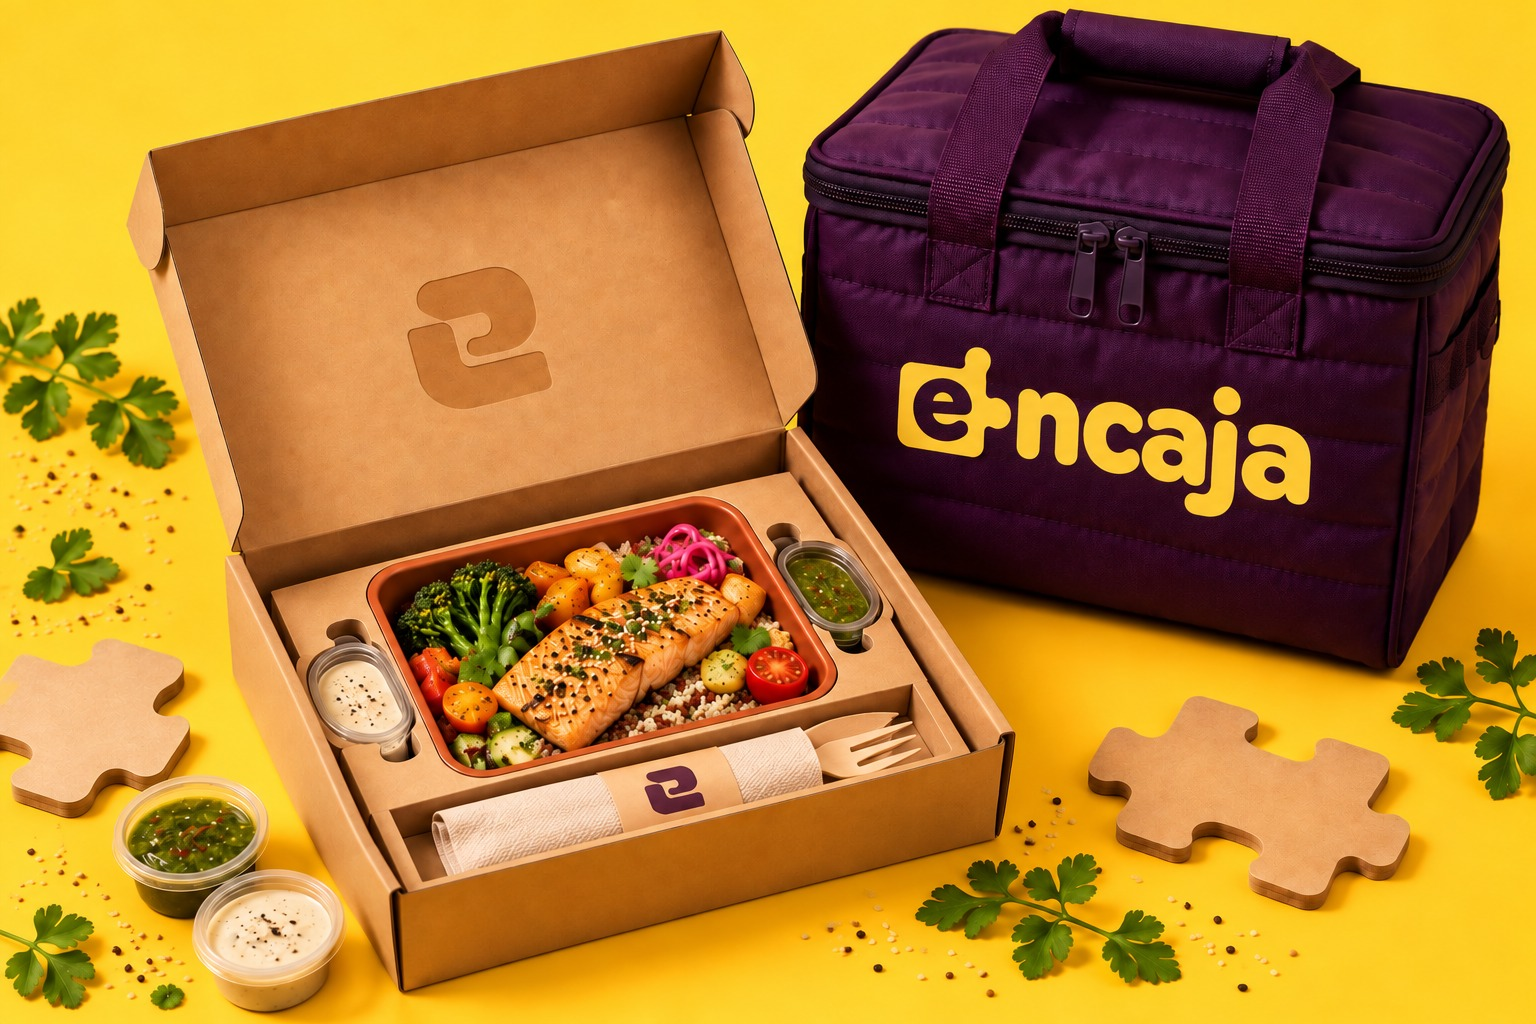
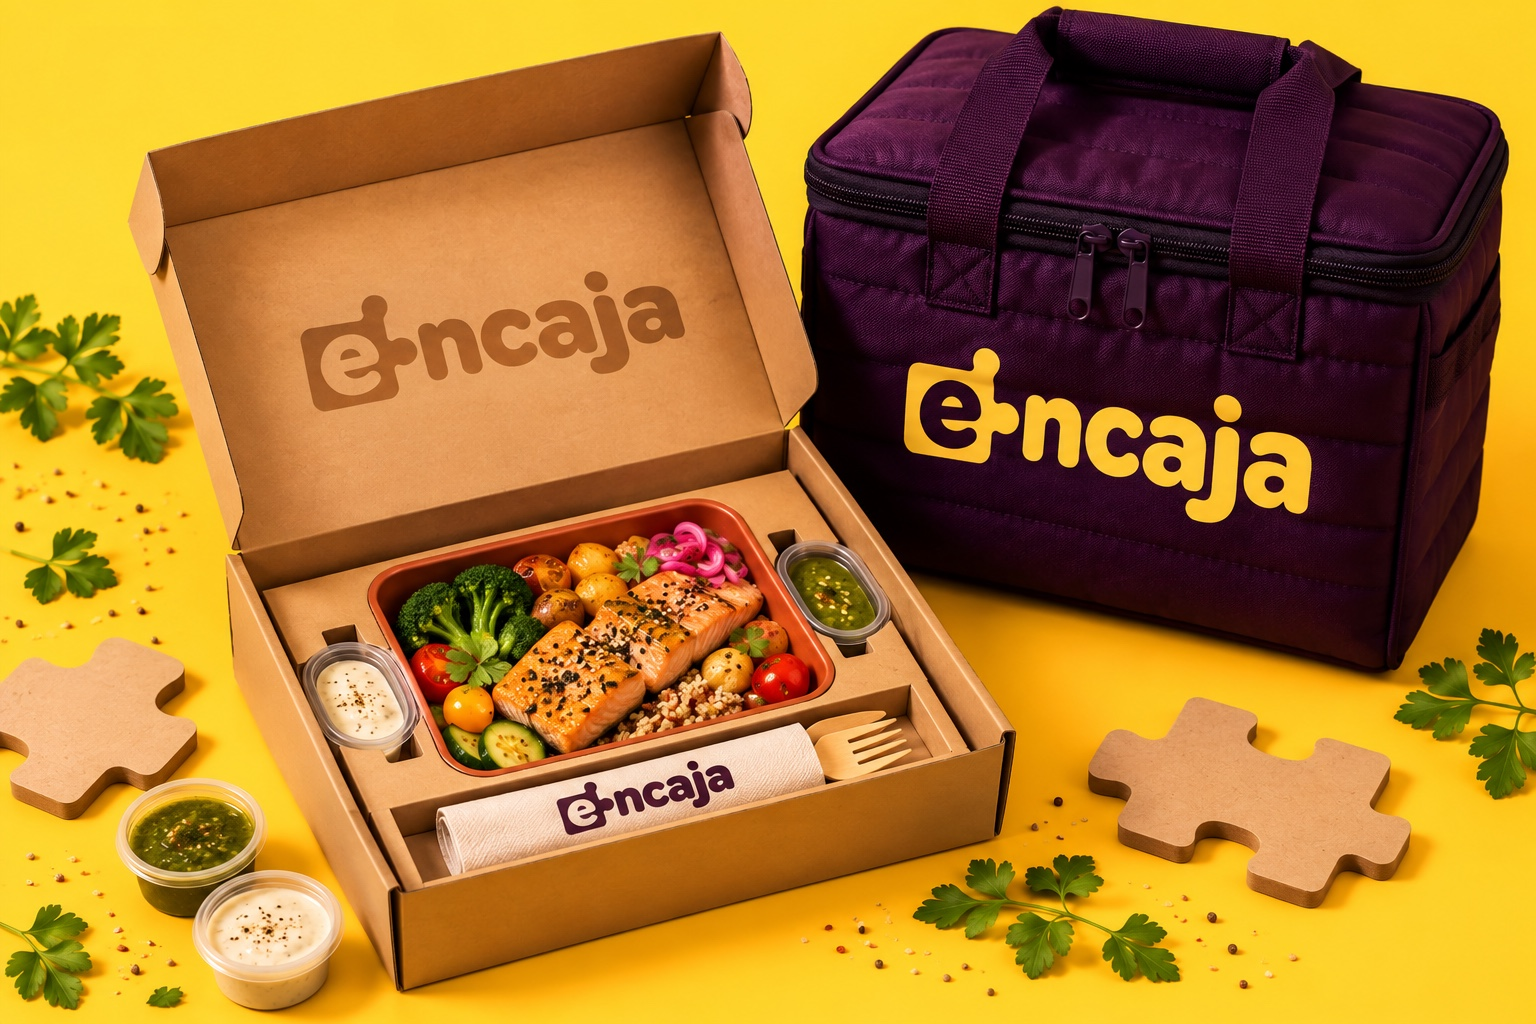
Add concept comparison images to proceso.html, live-site CTA, and update home packaging hero shot

diff --git a/public/proceso.html b/public/proceso.html
@@ -75,6 +75,18 @@
   .decision-intro h2{font-size:32px;}
   .decision-intro p{color:var(--ink-soft);max-width:680px;margin-top:14px;font-size:15.5px;}
 
+  .shot-grid{display:grid;grid-template-columns:repeat(3,1fr);gap:20px;margin-top:8px;}
+  @media(max-width:860px){.shot-grid{grid-template-columns:1fr;}}
+  .shot-card{background:var(--white);border:1px solid var(--carton-deep);border-radius:var(--radius);overflow:hidden;box-shadow:var(--shadow-sm);position:relative;}
+  .shot-card.winner{border:2px solid var(--teal);}
+  .shot-card .shot-badge{position:absolute;top:12px;right:12px;background:var(--maiz);color:var(--ink);font-size:11.5px;font-weight:800;padding:5px 12px;border-radius:999px;letter-spacing:.03em;z-index:1;box-shadow:var(--shadow-sm);}
+  .shot-card img{display:block;width:100%;height:auto;border-bottom:1px solid var(--carton-deep);}
+  .shot-card .shot-label{padding:14px 16px;}
+  .shot-card .shot-label .letter{display:inline-flex;width:26px;height:26px;border-radius:8px;align-items:center;justify-content:center;font-family:'Gasoek One','Arial Black',sans-serif;font-weight:400;font-size:13px;background:var(--lila-soft);color:var(--ink);margin-right:8px;vertical-align:middle;}
+  .shot-card.winner .shot-label .letter{background:var(--maiz);}
+  .shot-card .shot-label b{font-size:14.5px;color:var(--ink);vertical-align:middle;}
+  .shot-card .shot-label span{display:block;font-size:12px;color:var(--ink-soft);margin-top:2px;margin-left:34px;}
+
   .concept-grid{display:grid;grid-template-columns:repeat(3,1fr);gap:20px;margin-top:36px;}
   @media(max-width:860px){.concept-grid{grid-template-columns:1fr;}}
   .concept-card{
@@ -126,6 +138,15 @@
   }
   .figma-link:hover{background:rgba(14,124,107,0.08);transform:translateY(-1px);}
   .figma-link, .figma-link:visited{display:inline-flex;}
+
+  .live-link{
+    display:inline-flex;align-items:center;gap:8px;margin-top:24px;padding:13px 22px;
+    border-radius:999px;background:var(--teal);color:#fff;
+    font-size:14.5px;font-weight:700;text-decoration:none;
+    box-shadow:var(--shadow-sm);transition:background-color .2s, transform .2s;
+  }
+  .live-link:hover{background:var(--teal-deep);transform:translateY(-1px);}
+  .live-link, .live-link:visited{color:#fff;}
 
   /* benchmark */
   .bench-grid-outer{display:grid;grid-template-columns:1fr 1fr;gap:22px;}
@@ -327,10 +348,27 @@
     <div class="meta-pill"><b>Método</b><span>3 direcciones exploradas en paralelo antes de decidir cuál resolvía mejor el problema</span></div>
     <div class="meta-pill"><b>Estado</b><span>Concepto validado, con wireframes y pantallas de alta fidelidad en Figma</span></div>
   </div>
+  <a class="live-link" href="https://encaja-app.nbdesigner23.workers.dev/" target="_blank" rel="noopener noreferrer">Ver prototipo ↗</a>
 </header>
 
 <section id="decision">
   <div class="wrap">
+    <div class="shot-grid">
+      <div class="shot-card">
+        <img src="/images/concepts/concepto-a-perfil-swap.png" alt="Concepto A: Perfil & Swap, home quiz-first en verde y blanco">
+        <div class="shot-label"><span class="letter">A</span><b>Perfil &amp; Swap</b><span>Quiz-first, calmado, hereda la caja</span></div>
+      </div>
+      <div class="shot-card winner">
+        <span class="shot-badge">Elegido</span>
+        <img src="/images/concepts/concepto-b-encaja.png" alt="Concepto B: Encaja, bandeja tipo puzzle con 5 slots en morado y amarillo, ganador">
+        <div class="shot-label"><span class="letter">B</span><b>Encaja</b><span>Swipe-to-build, decisión receta por receta</span></div>
+      </div>
+      <div class="shot-card">
+        <img src="/images/concepts/concepto-c-lienzo.png" alt="Concepto C: Lienzo semanal, home swipe-to-build en cartón y maíz">
+        <div class="shot-label"><span class="letter">C</span><b>Lienzo semanal</b><span>Box canvas, todos los slots a la vista</span></div>
+      </div>
+    </div>
+
     <div class="decision-intro">
       <h2>3 conceptos, 1 ganador: "Encaja" (swipe-to-build)</h2>
       <p>Se desarrollaron tres direcciones completas de forma independiente, cada una con su propio benchmark, persona, flujo y dirección UI, antes de comparar cuál resolvía mejor el problema de personalización semanal.</p>
